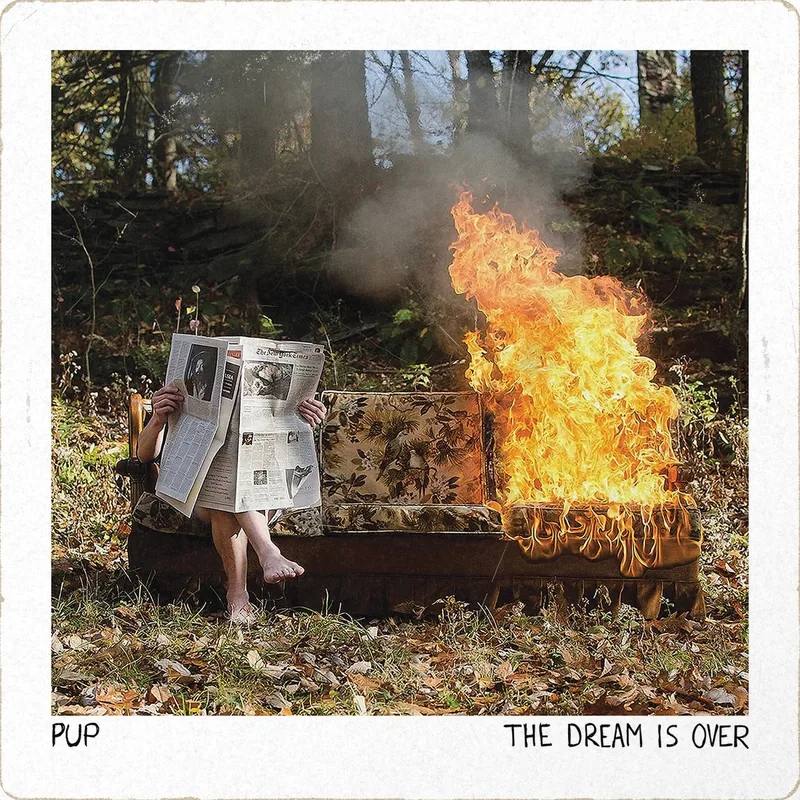
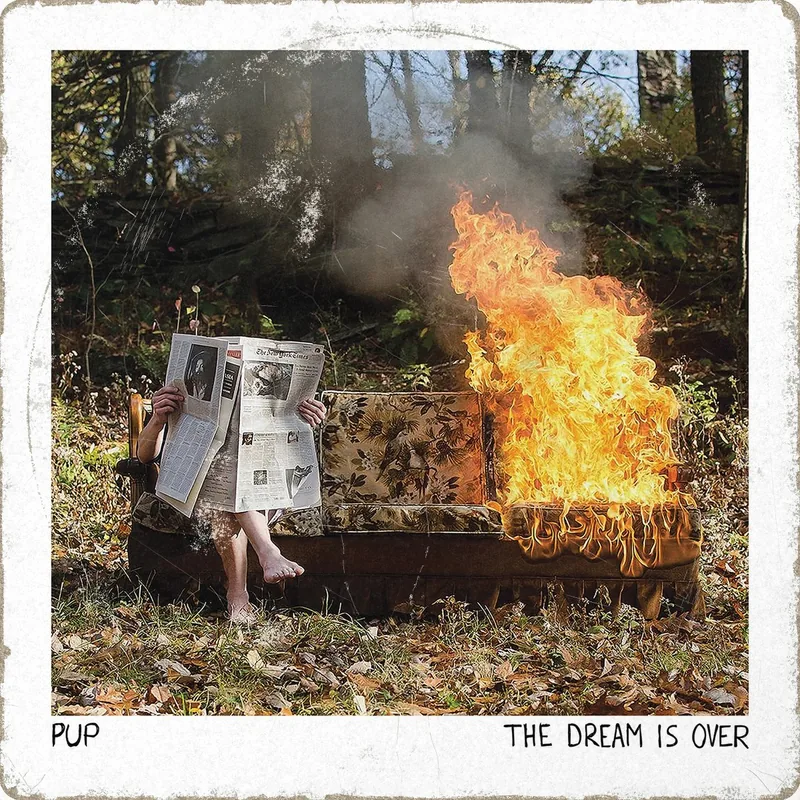
40: Day 24 PUP sleeve worn in like it was played; wear.age knob (not live)
Drew: 'PUP album has like no texture on it'. At 10 years old the engine kept the
white sleeve near-clean (age gates the ring's impression line, grey grain in
rubbed white stock and grimy cut edges). New per-record knob wear.age = years of
play, used in place of the release year. PUP: high, age 25, edge 3, surface 2.5,
back .6. Other records unchanged.

Claude-Session: https://claude.ai/code/session_01PbqXtG5SizYecEWh39Pkkj

diff --git a/scripts/make-wear.py b/scripts/make-wear.py
@@ -857,6 +857,8 @@ def job(a):
     level = (a.get('wear') or {}).get('level', 'med')
     level = level if level in LEVELS else 'med'
     w = a.get('wear') or {}
+    year = a.get('year')
+    if w.get('age'): year = str(2026 - int(w['age']))     # per-record: years of play, for a record worn harder than its date says
     g = {'amount': 1.0, 'edge': 1.0, 'surface': 0.0} if w.get('lock') else GLOBAL     # lock: exactly as signed off
     amount = float(w.get('amount', g['amount']))
     edgew = float(w.get('edge', g['edge']))                   # per-record: more edge wear where the art hides the rest
@@ -869,7 +871,7 @@ def job(a):
     masks = {}
     for lv in (LEVELS if LEVELS_DIR else [level]):
         dens, ek, _ = LEVELS[lv]
-        masks[lv] = make_mask(slug, a.get('year'), dens * tone * amount, ek, '', lum, edgew, surfw, bendw, ringw)
+        masks[lv] = make_mask(slug, year, dens * tone * amount, ek, '', lum, edgew, surfw, bendw, ringw)
     mask, life, age, ring = masks[level]; k = LEVELS[level][2]
     MASKS.mkdir(parents=True, exist_ok=True)
     Image.fromarray((mask[..., :3] * 255 + .5).astype(np.uint8), 'RGB').save(MASKS / f'{slug}.png')
@@ -883,7 +885,7 @@ def job(a):
         lumb = float(lum_of(covb).mean())
         dens, ek, _ = LEVELS[level]
         bw = float(w.get('back', 1.0))                        # per-record: the back's share of the wear (a stark white back shows it all)
-        mb = make_mask(slug, a.get('year'), dens * (1 + .3 * float(smooth(.6, .85, lumb))) * amount * bw, ek, ':back', lumb,
+        mb = make_mask(slug, year, dens * (1 + .3 * float(smooth(.6, .85, lumb))) * amount * bw, ek, ':back', lumb,
                        1 + (edgew - 1) * bw, surfw * bw, bendw, ringw)[0]
         bk = bake(covb, mb, k, slug + ':back', age)
         if fw > 0: bk = fold(bk, slug, ':back', MIRROR[fat], fw)

diff --git a/docs/40-sleeve-wear.md b/docs/40-sleeve-wear.md
@@ -26,6 +26,7 @@ day). Build a record by slug and give it its `no` (the date follows from it) onl
 | `back`    | 1.0     | the back's share of the wear. A stark white back shows every mark: Wondrous Bughouse .5. The `fold` carries through regardless |
 | `ring`    | 1.0     | how hard the disc reads: the ring, its inner band, the rim line and the rub bars, front and back. `0` = no ring. On a flat black field a broad "flake" ring reads as salt speckle at full strength: Parachutes `.3` |
 | `lock`    | —       | `true` = render with base settings, exactly as signed off (Incubus, Phish) |
+| `age`     | release year | years of play, used in place of the record's age: a record worn harder than its date says. Age gates the ring's impression line, grey grain in rubbed white stock and grimy cut edges, so a young white sleeve otherwise stays near-clean. PUP *The Dream Is Over* (2016, played constantly) `25` |
 
 Busy all-over art (Merriweather, Wondrous Bughouse) hides wear in the middle: push `edge` (3.5–4) instead, and if it still reads clean give it a `fold`; thin `bends` vanish in busy art.
 
